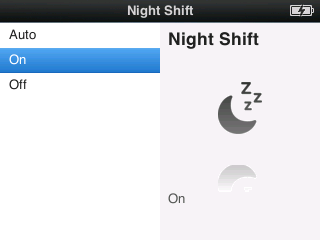
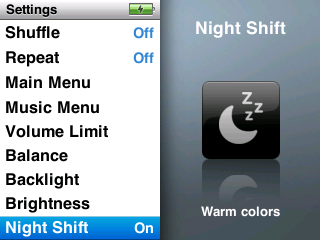
feat: use inline settings for Night Shift and describe Playback Log
Cycle Night Shift from Settings and show the active color or schedule in the preview. Update both catalog listings with screenshots of the new rows.

diff --git a/extensions/night-shift/main.c b/extensions/night-shift/main.c
@@ -55,15 +55,11 @@ static const char *caption(const struct rv_context *ctx)
 }
 
 static const struct rv_setting settings[] = {
-    RV_SETTING_CHOICE(MODE, "Night Shift", NIGHT_SHIFT_OFF, night_shift_labels),
-};
-static const struct rv_screen screens[] = {
-    RV_SCREEN_CHOICE("mode", "Night Shift", MODE, night_shift_labels,
-                     .bitmap = RV_BITMAP("settings-night-shift")),
+    RV_SETTING_LABELLED(MODE, "Night Shift", NIGHT_SHIFT_OFF, night_shift_labels),
 };
 static const struct rv_menu_entry entries[] = {
     RV_MENU_ENTRY(RV_MENU_SETTINGS, RV_SETTINGS_BRIGHTNESS,
-                  RV_ROW_PUSH("Night Shift", "mode"), .caption_setting = MODE,
+                  RV_ROW_SETTING("Night Shift", MODE), .caption_setting = MODE,
                   .pane = RV_PANE(.caption_text = caption,
                                   .bitmap = RV_BITMAP("settings-night-shift"))),
 };
@@ -74,7 +70,6 @@ static const struct rv_hook hooks[] = {
 static const struct rv_descriptor extension = {
     .size = sizeof extension,
     RV_SETTINGS(settings),
-    RV_SCREENS(screens),
     RV_ENTRIES(entries),
     RV_HOOKS(hooks),
     .setting_changed = changed,

diff --git a/extensions/night-shift/test.c b/extensions/night-shift/test.c
@@ -127,6 +127,7 @@ static void night_shift_contracts(void)
     /* On loads the warm tables; Off loads the identity ramp and frees them. */
     int out = allocations, loads = gamma_loads;
     night_shift_set(NIGHT_SHIFT_ON);
+    assert(!strcmp(night_shift_caption(), "Warm colors"));
     assert(gamma_loads == loads + 1 && allocations == out + 1);
     assert(gamma_loaded[0][255] == 1020 && gamma_loaded[1][255] == (1020 * 216) >> 8 &&
            gamma_loaded[2][255] == (1020 * 150) >> 8);
@@ -137,6 +138,7 @@ static void night_shift_contracts(void)
     night_shift_set(NIGHT_SHIFT_ON);
     assert(gamma_loads == loads + 1);
     night_shift_set(NIGHT_SHIFT_OFF);
+    assert(!strcmp(night_shift_caption(), "Standard colors"));
     assert(gamma_loads == loads + 2 && allocations == out);
     assert(gamma_loaded[1][255] == 1020 && gamma_loaded[2][128] == 512);
     assert(night_shift_init_gamma(1, 2, 3, NULL) == next_result && passed[2] == 3);

diff --git a/extensions/playback-log/main.c b/extensions/playback-log/main.c
@@ -634,8 +634,9 @@ static const struct rv_setting settings[] = {
     RV_SETTING_BOOL(ENABLED, "Playback Log", 0)};
 static const struct rv_menu_entry entries[] = {
     RV_MENU_ENTRY(RV_MENU_SETTINGS, RV_SETTINGS_SOUND_CHECK,
-                  RV_ROW_SETTING("Playback Log", ENABLED), .caption_setting = ENABLED,
-                  .pane = RV_PANE(.bitmap = RV_BITMAP("settings-playback-log"))),
+                  RV_ROW_SETTING("Playback Log", ENABLED),
+                  .pane = RV_PANE(.caption = "Save Listening History",
+                                  .bitmap = RV_BITMAP("settings-playback-log"))),
 };
 static const struct rv_hook hooks[] = {
     RV_HOOK_FILTER(RV_SITE_MediaPlayer_AdvanceFinish_call, on_skip),

diff --git a/extensions/night-shift/night_shift.c b/extensions/night-shift/night_shift.c
@@ -93,7 +93,9 @@ void night_shift_stop(void)
 
 const char *night_shift_caption(void)
 {
-    return mode == NIGHT_SHIFT_AUTO ? schedule_caption() : night_shift_labels[mode];
+    if (mode == NIGHT_SHIFT_AUTO)
+        return schedule_caption();
+    return mode == NIGHT_SHIFT_ON ? "Warm colors" : "Standard colors";
 }
 
 uint32_t night_shift_init_gamma(uint32_t red, uint32_t green, uint32_t blue,
